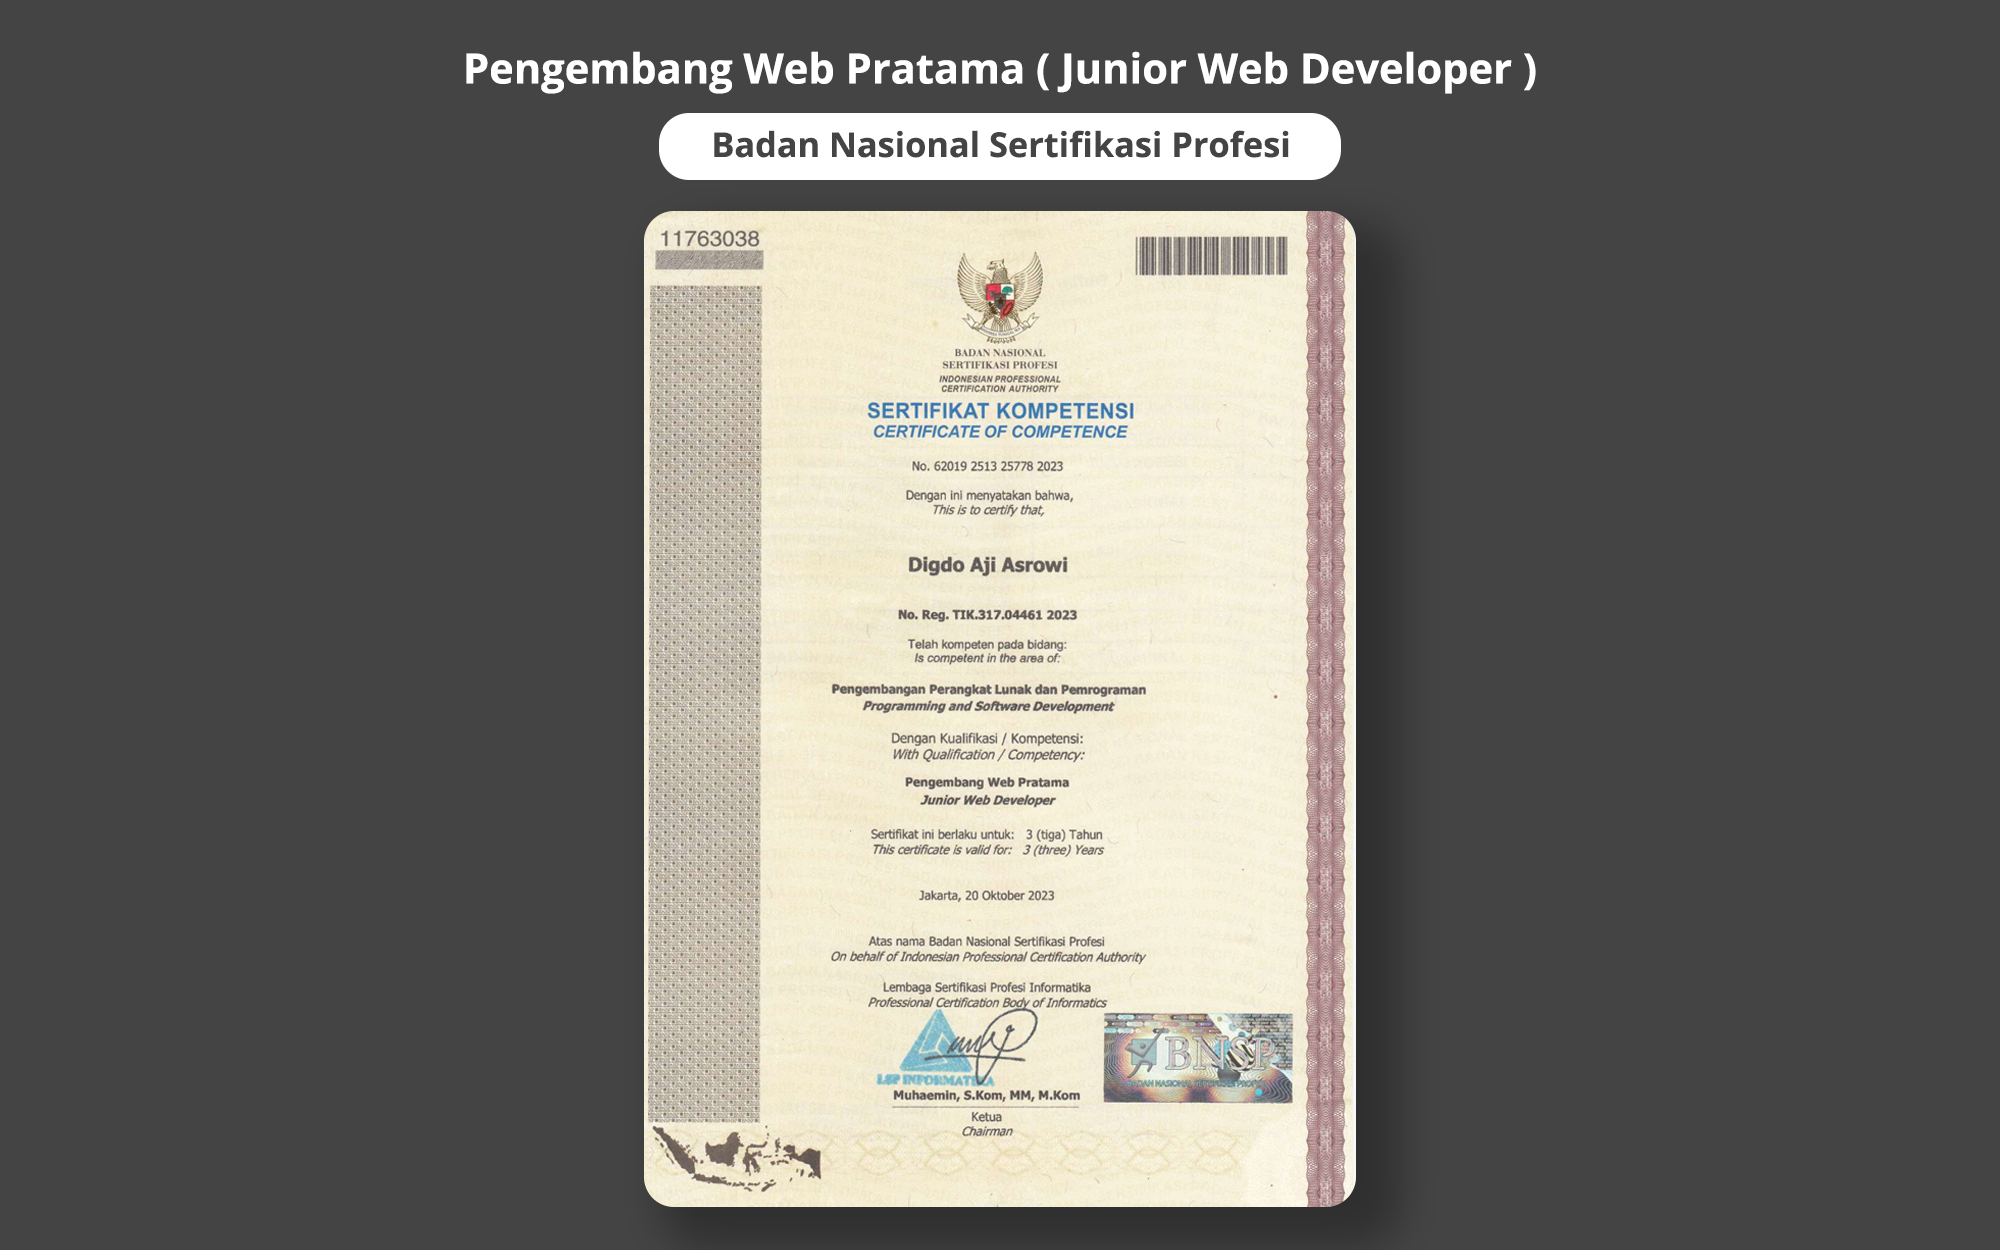
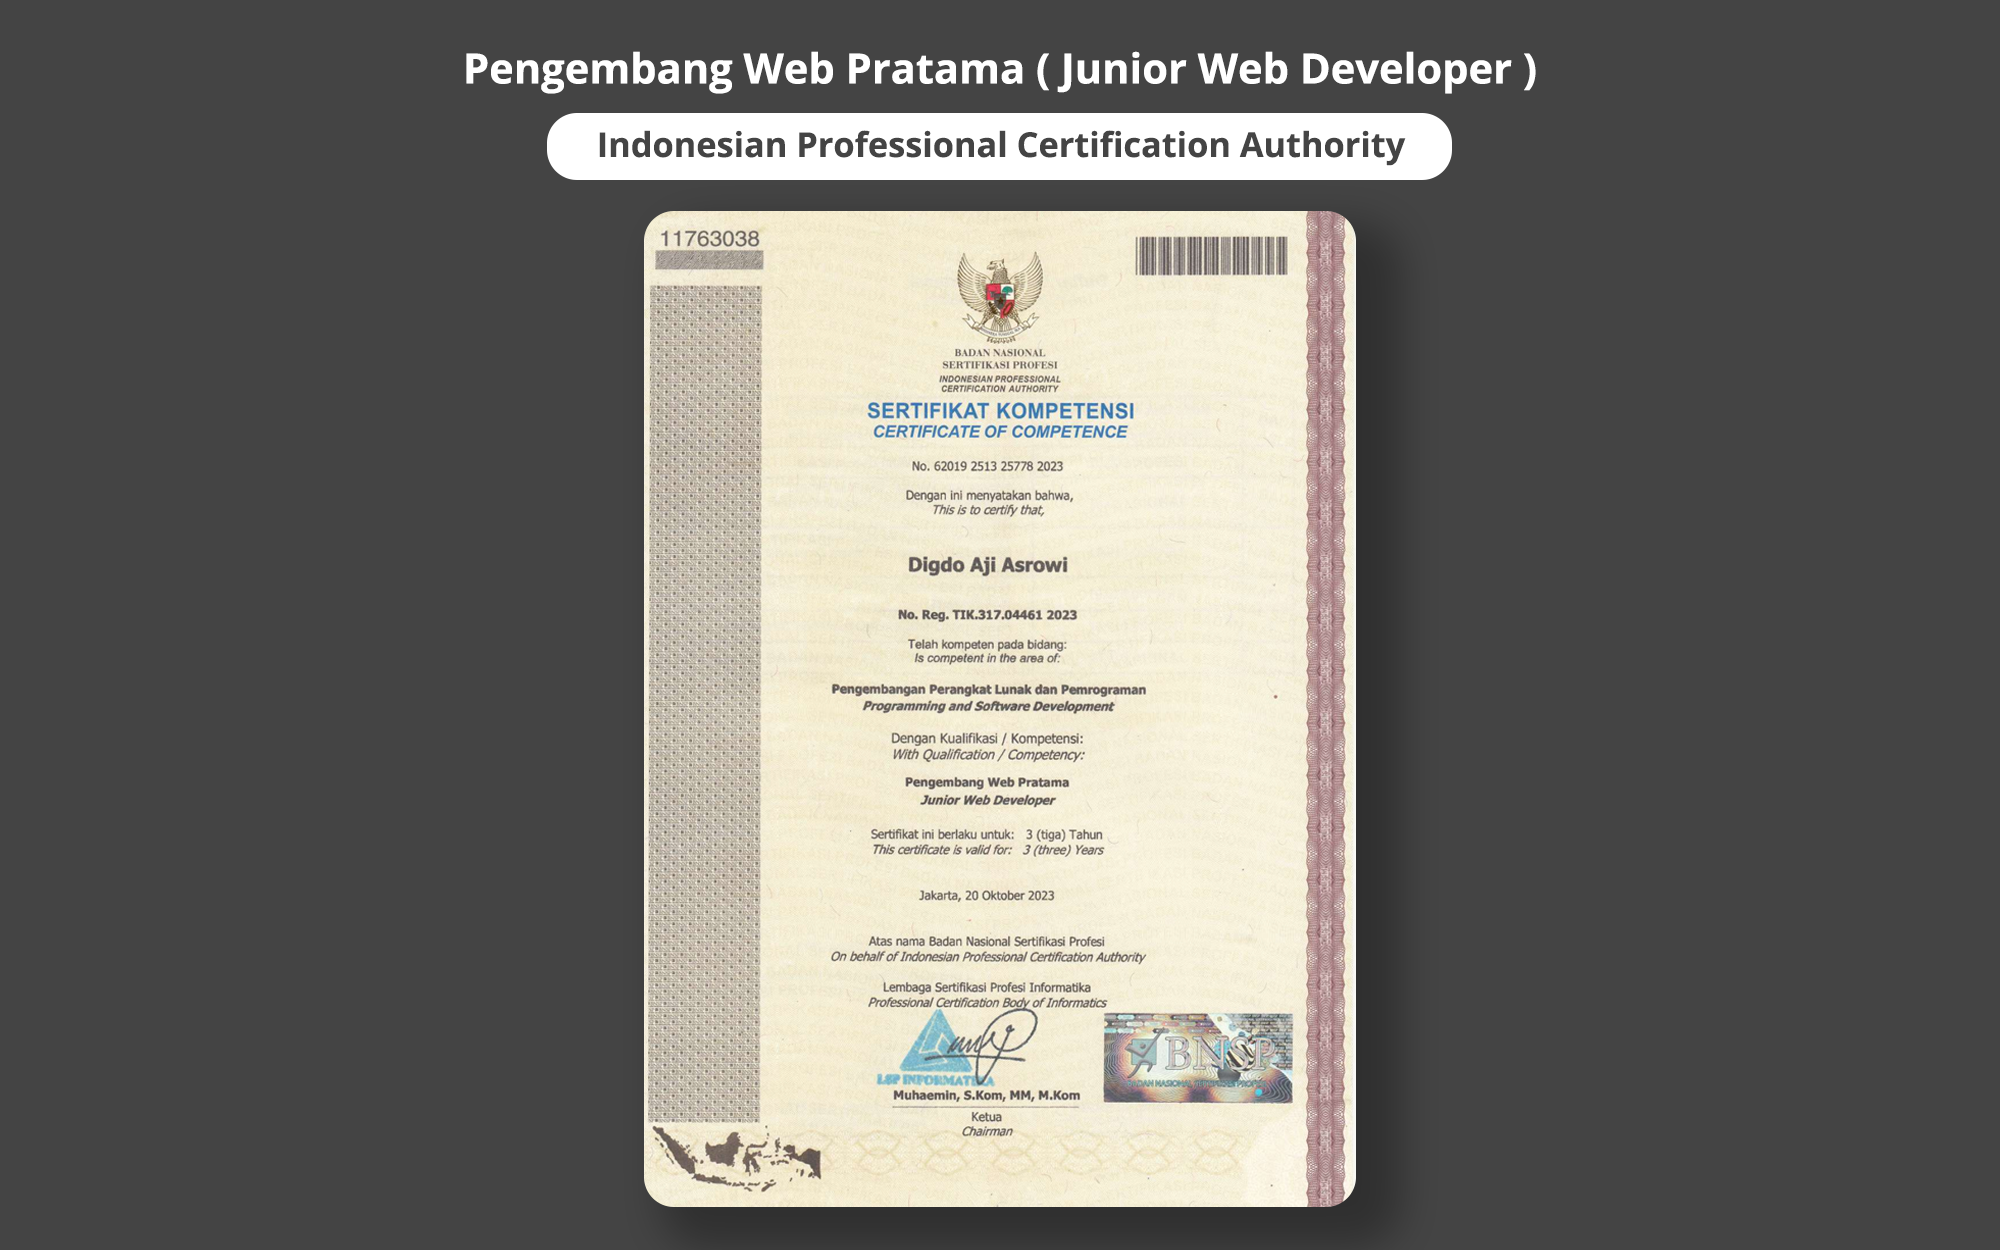
Change img BNSP & Eksmud. Update Info BNSP JWD

Changed region(s): [[0.248, 0.0624, 0.744, 0.156]]

diff --git a/certification-bnsp_jwd.html b/certification-bnsp_jwd.html
@@ -64,7 +64,7 @@
                 <li>
                   <strong>Organizer</strong>:
                   <br />
-                  <span>Badan Nasional Sertifikasi Profesi (BNSP)</span>
+                  <span>Badan Nasional Sertifikasi Profesi (BNSP) / Indonesian Professional Certification Authority</span>
                 </li>
                 <li>
                   <strong>Credential</strong>:
